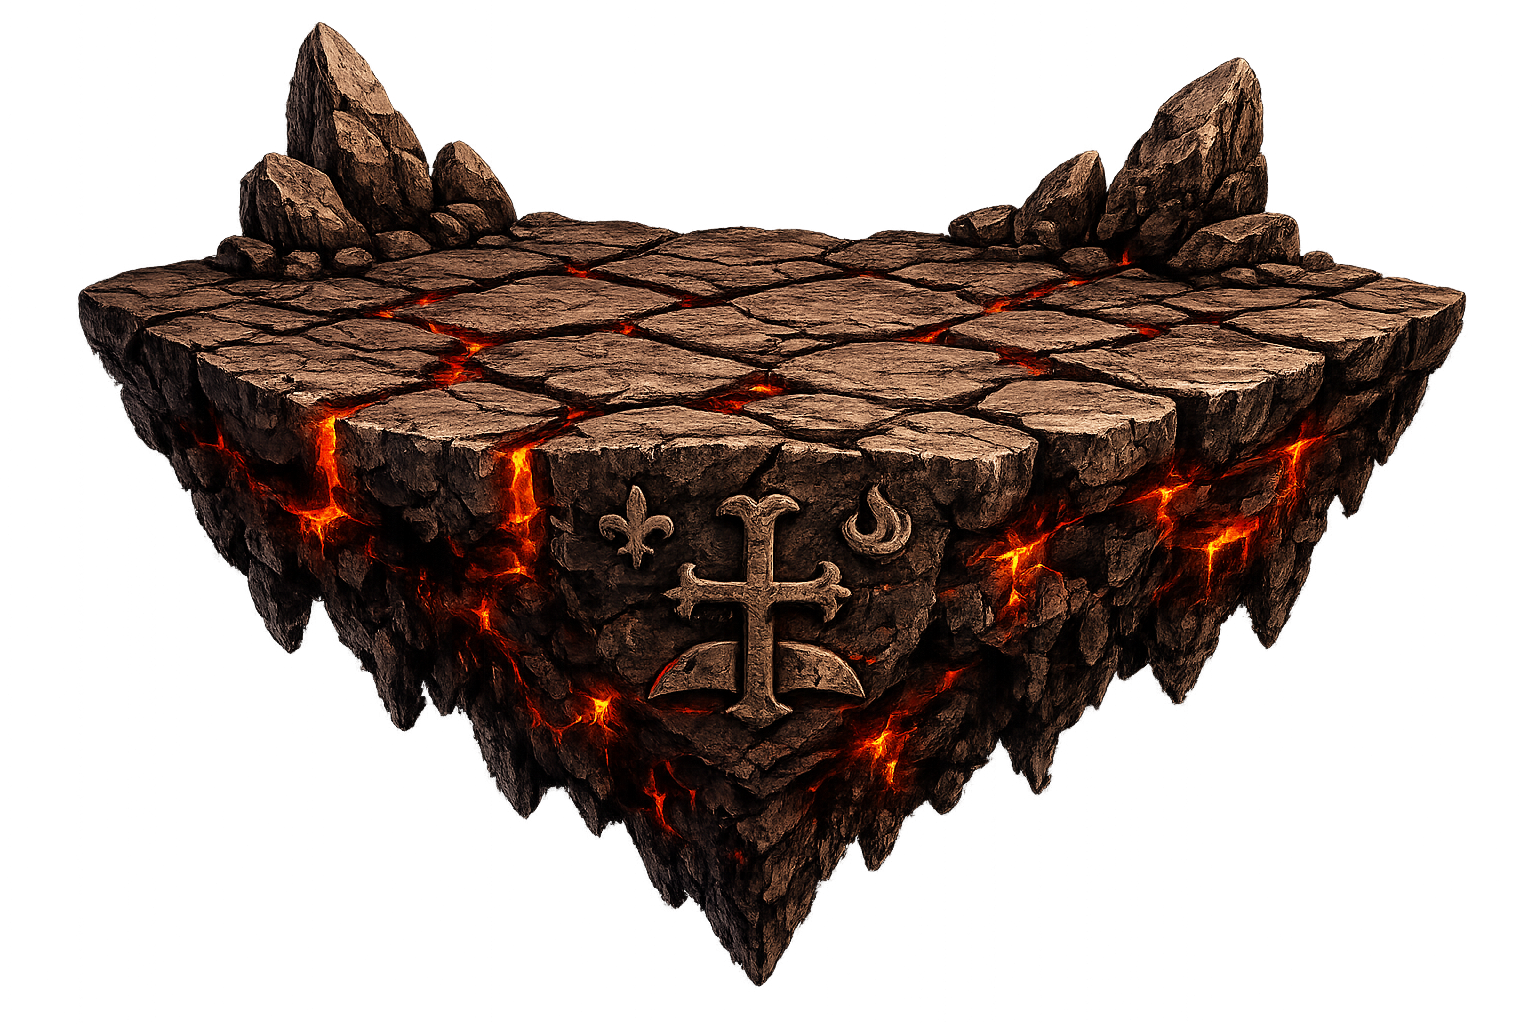
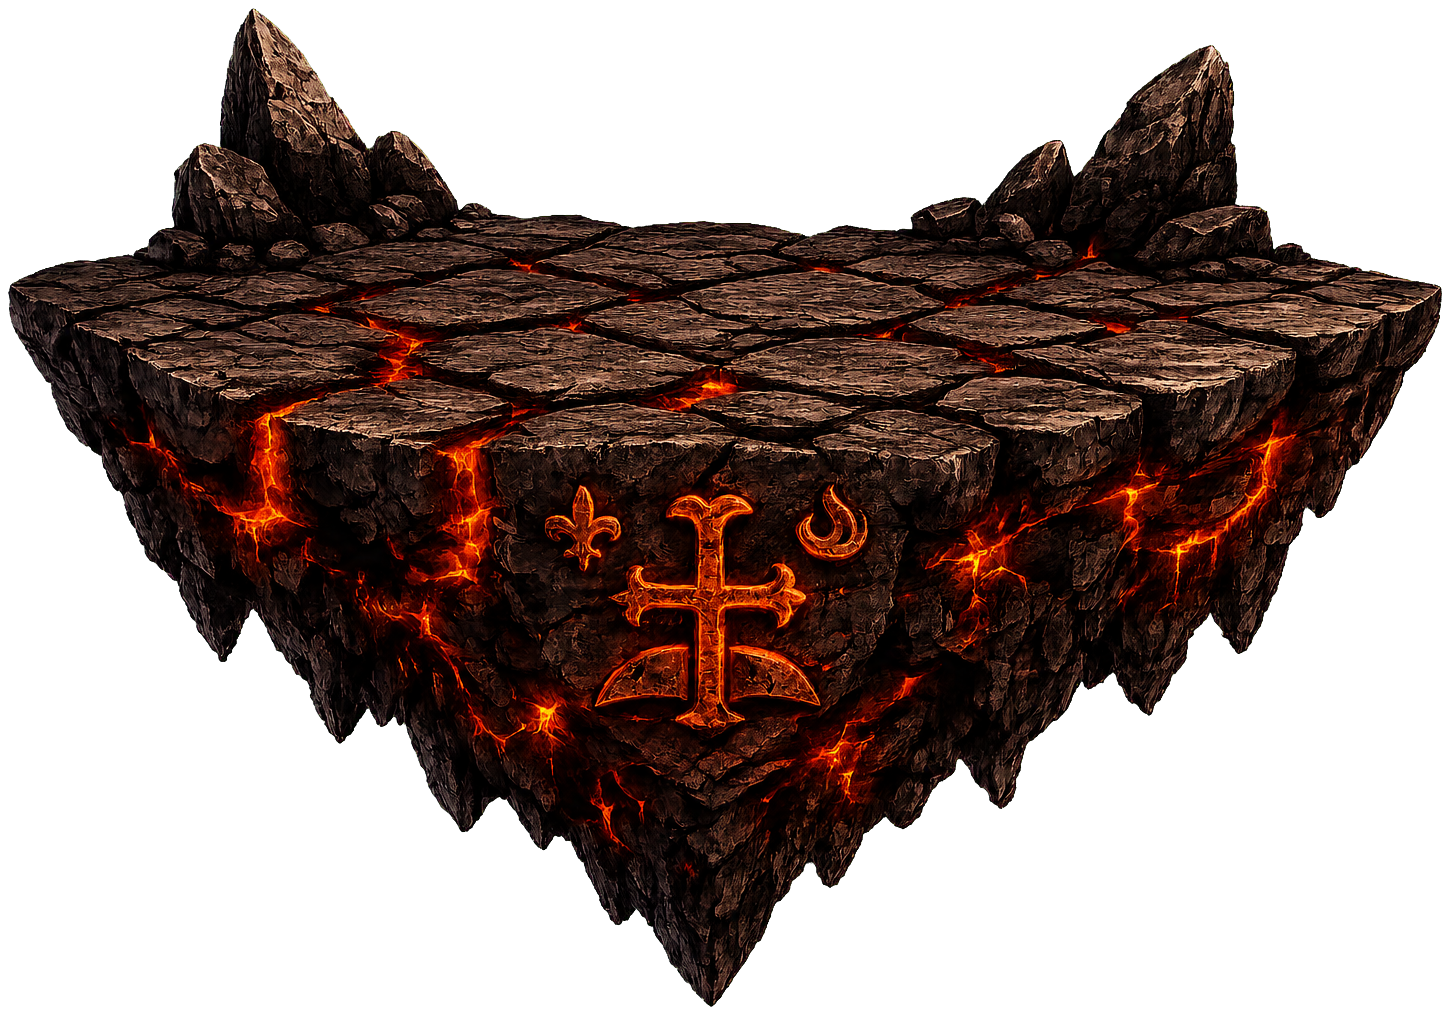
Replace Colt Run platform 12

diff --git a/app.js b/app.js
@@ -2065,6 +2065,7 @@ function startColtRunGame() {
   platformAssetVersions[4] = "20260718-platform05-replace1";
   platformAssetVersions[8] = "20260718-platform09-replace1";
   platformAssetVersions[9] = "20260719-platform10-replace1";
+  platformAssetVersions[11] = "20260719-platform12-replace1";
   platformAssetVersions[12] = "20260718-platform13-replace1";
   platformAssetVersions[13] = "20260718-platform14-replace1";
   platformAssetVersions[14] = "20260718-platform15-replace1";

diff --git a/index.html b/index.html
@@ -8,7 +8,7 @@
 </head>
 <body>
   <main id="app" class="app-shell"></main>
-  <script src="app.js?v=20260719-character-select-music1"></script>
+  <script src="app.js?v=20260719-platform12-replace1"></script>
 </body>
 </html>
 
